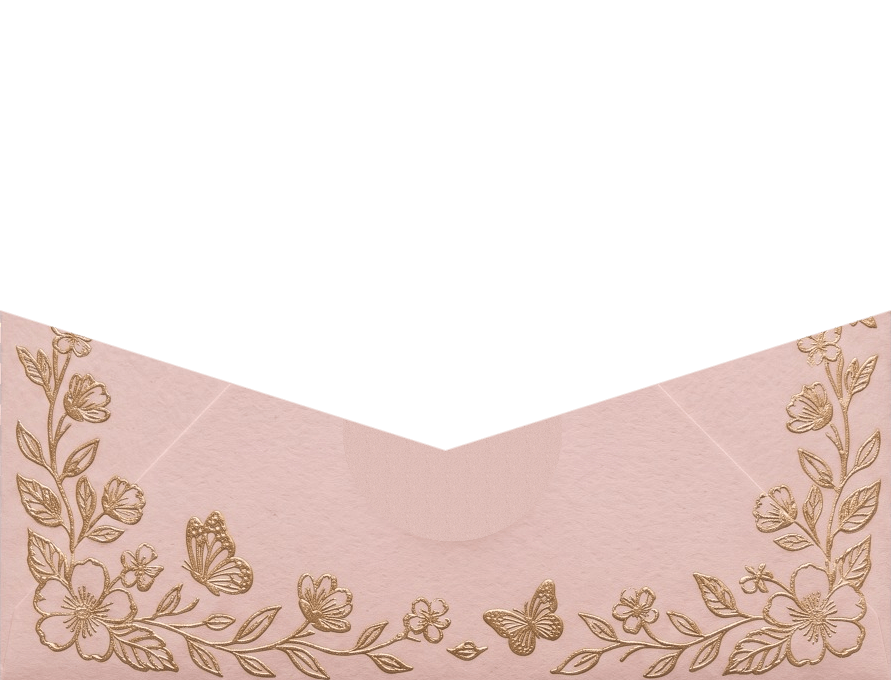
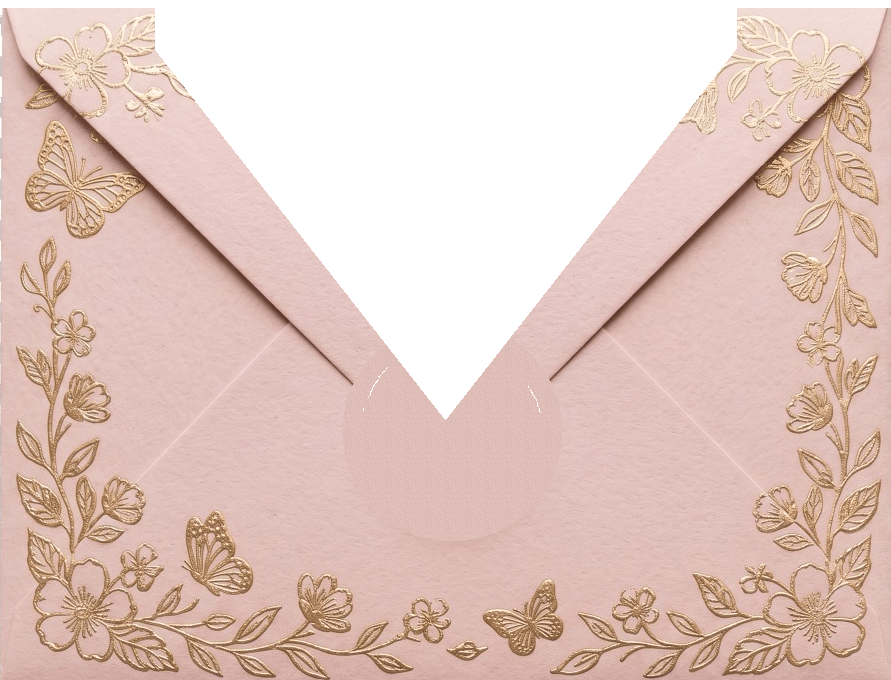
fix: fill side gaps with solid pocket flaps and align wax seal vertically inside envelope body

diff --git a/src/components/invitation/EnvelopeIntro.tsx b/src/components/invitation/EnvelopeIntro.tsx
@@ -353,7 +353,7 @@ export default function EnvelopeIntro({
 
         {/* Capa 4: Solapa Superior Móvil en 3D (Dos caras: dorada cerrada / rosa lisa abierta) */}
         <div
-          className="absolute top-0 left-0 w-full h-full pointer-events-none select-none transition-transform"
+          className="absolute top-0 left-0 w-full h-[158px] sm:h-[172px] pointer-events-none select-none transition-transform"
           style={{
             transformOrigin: "top center",
             transformStyle: "preserve-3d",
@@ -374,7 +374,7 @@ export default function EnvelopeIntro({
             <img
               src="/assets/sobre-rosa/solapa.png"
               alt="Solapa cerrada"
-              className="absolute top-0 left-[1.25%] w-[97.5%] h-auto select-none"
+              className="absolute top-0 left-[1.25%] w-[97.5%] h-full object-fill select-none"
               style={{
                 filter: "drop-shadow(0 6px 14px rgba(0,0,0,0.22))",
               }}
@@ -386,7 +386,7 @@ export default function EnvelopeIntro({
               alt="Sello de cera"
               className="absolute left-1/2 -translate-x-1/2 -translate-y-1/2 w-14 sm:w-16 h-14 sm:h-16 select-none"
               style={{
-                top: "92%",
+                top: "100%",
                 filter: "drop-shadow(0 6px 14px rgba(0,0,0,0.35))",
               }}
             />
@@ -405,7 +405,7 @@ export default function EnvelopeIntro({
             <img
               src="/assets/sobre-rosa/solapa-interior.png"
               alt="Solapa abierta"
-              className="absolute top-0 left-[1.25%] w-[97.5%] h-auto select-none"
+              className="absolute top-0 left-[1.25%] w-[97.5%] h-full object-fill select-none"
               style={{
                 filter: "drop-shadow(0 -4px 12px rgba(0,0,0,0.2))",
               }}
@@ -417,7 +417,7 @@ export default function EnvelopeIntro({
               alt="Sello de cera"
               className="absolute left-1/2 -translate-x-1/2 -translate-y-1/2 w-14 sm:w-16 h-14 sm:h-16 select-none"
               style={{
-                top: "92%",
+                top: "100%",
                 filter: "drop-shadow(0 6px 14px rgba(0,0,0,0.35))",
               }}
             />
